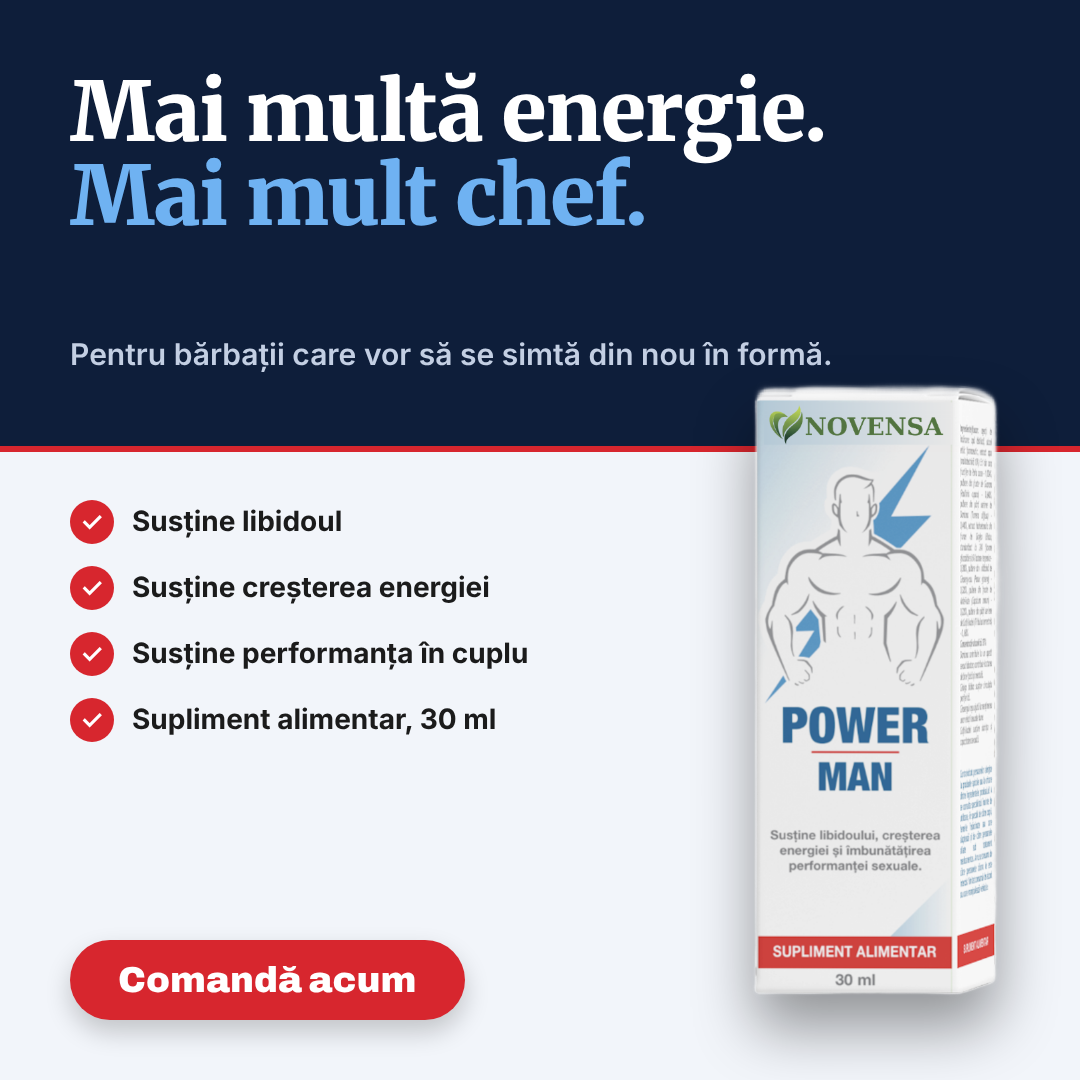
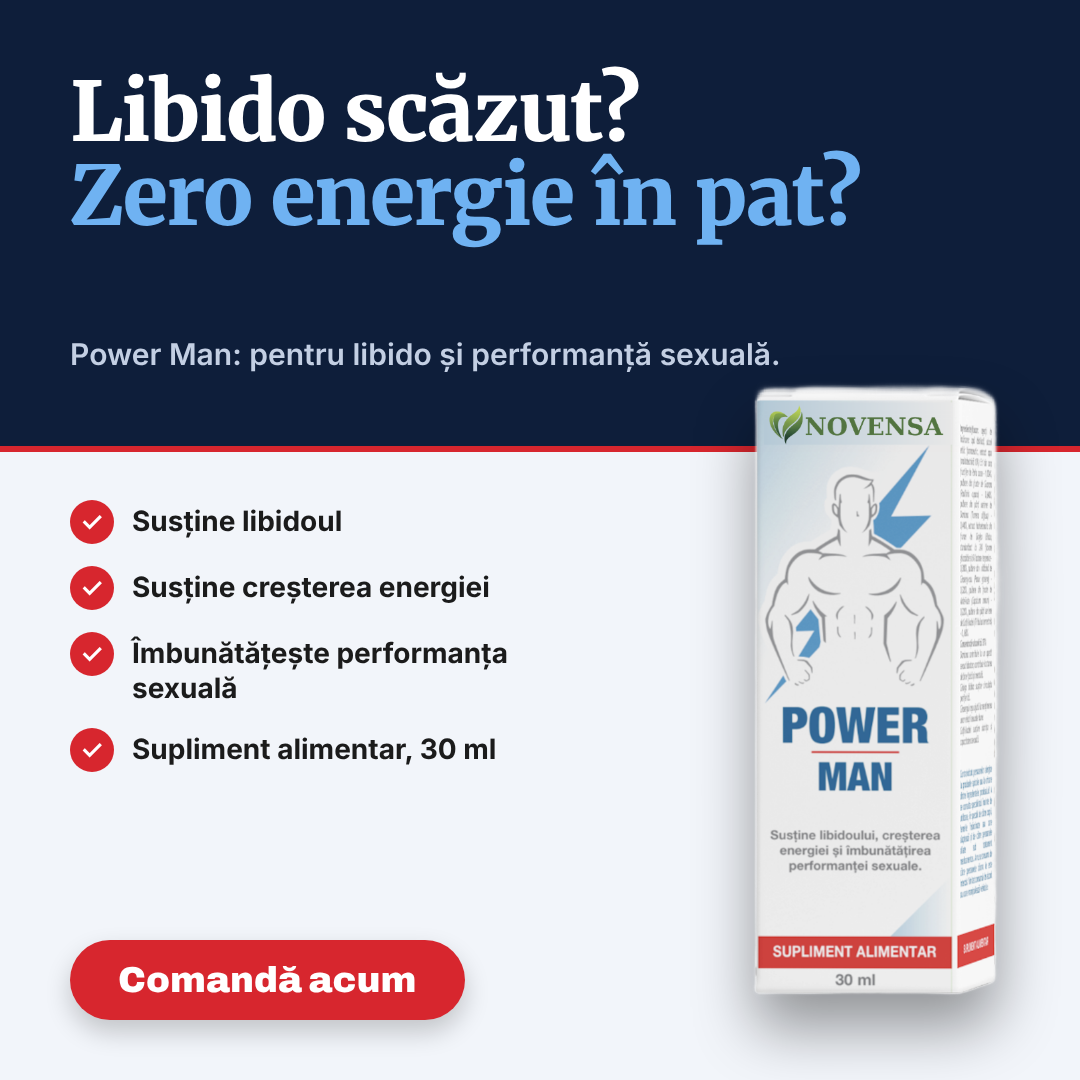
Power Man static: direct wording
Claude-Session: https://claude.ai/code/session_01C3AciYoWwzN4S9mfha52sF

Changed region(s): [[0.0611, 0.0611, 0.7944, 0.2444], [0.0611, 0.5806, 0.4889, 0.7333], [0.0917, 0.3056, 0.7639, 0.3361]]

diff --git a/brand/power-man/render.js b/brand/power-man/render.js
@@ -26,8 +26,8 @@ html,body{width:1080px;height:1350px;overflow:hidden;background:#F2F5FA;color:#1
 .cta b{display:inline-block;background:#D7262E;color:#fff;font:900 42px/1 A;padding:26px 56px;border-radius:999px;box-shadow:0 12px 26px rgba(0,0,0,.2)}
 `;
 const ads = [
-  { id: 'power-man', hook: 'Mai multă energie.<br><span>Mai mult chef.</span>', sub: 'Pentru bărbații care vor să se simtă din nou în formă.',
-    reasons: ['Susține libidoul', 'Susține creșterea energiei', 'Susține performanța în cuplu', 'Supliment alimentar, 30 ml'] },
+  { id: 'power-man', hook: 'Libido scăzut?<br><span>Zero energie în pat?</span>', sub: 'Power Man: pentru libido și performanță sexuală.',
+    reasons: ['Susține libidoul', 'Susține creșterea energiei', 'Îmbunătățește performanța sexuală', 'Supliment alimentar, 30 ml'] },
 ];
 const html = (a) => `<!doctype html><html lang="ro"><head><meta charset="utf-8"><style>${css}</style></head><body>
 <div class="top"></div>
